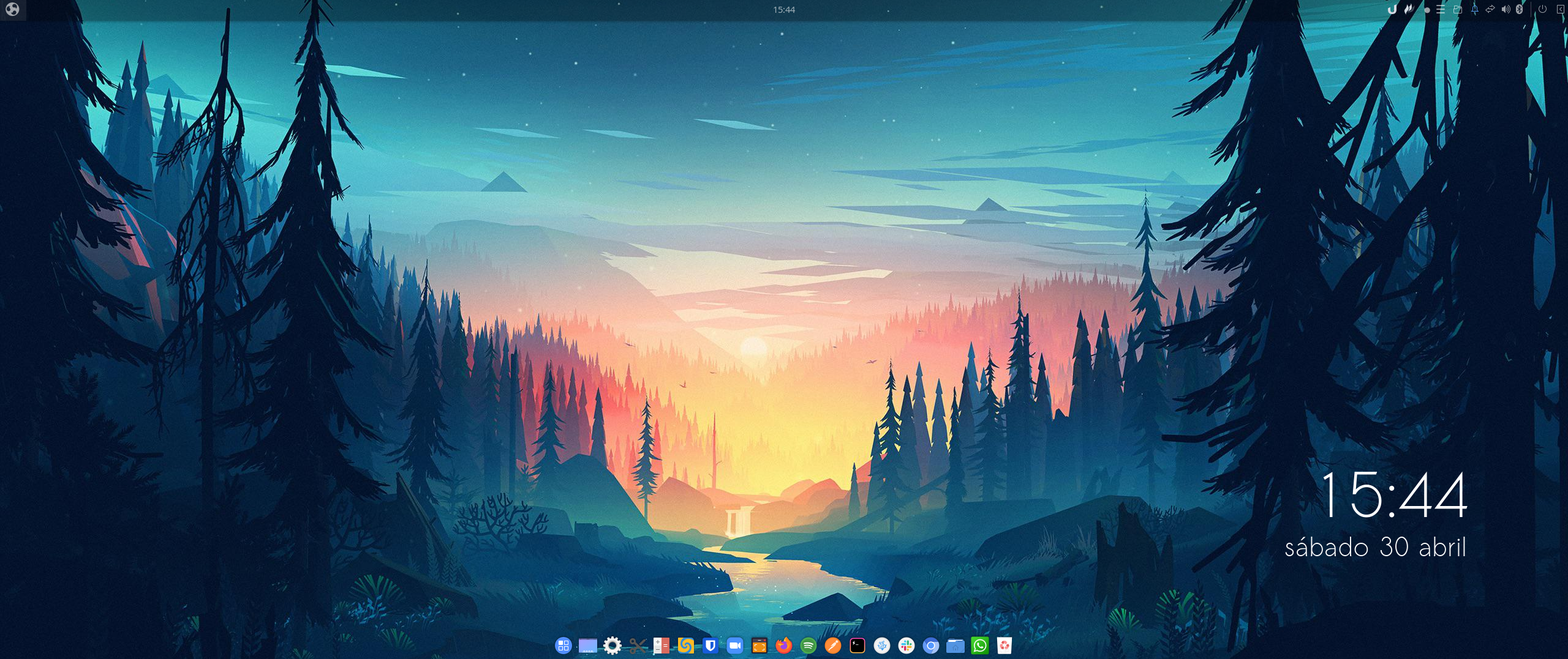
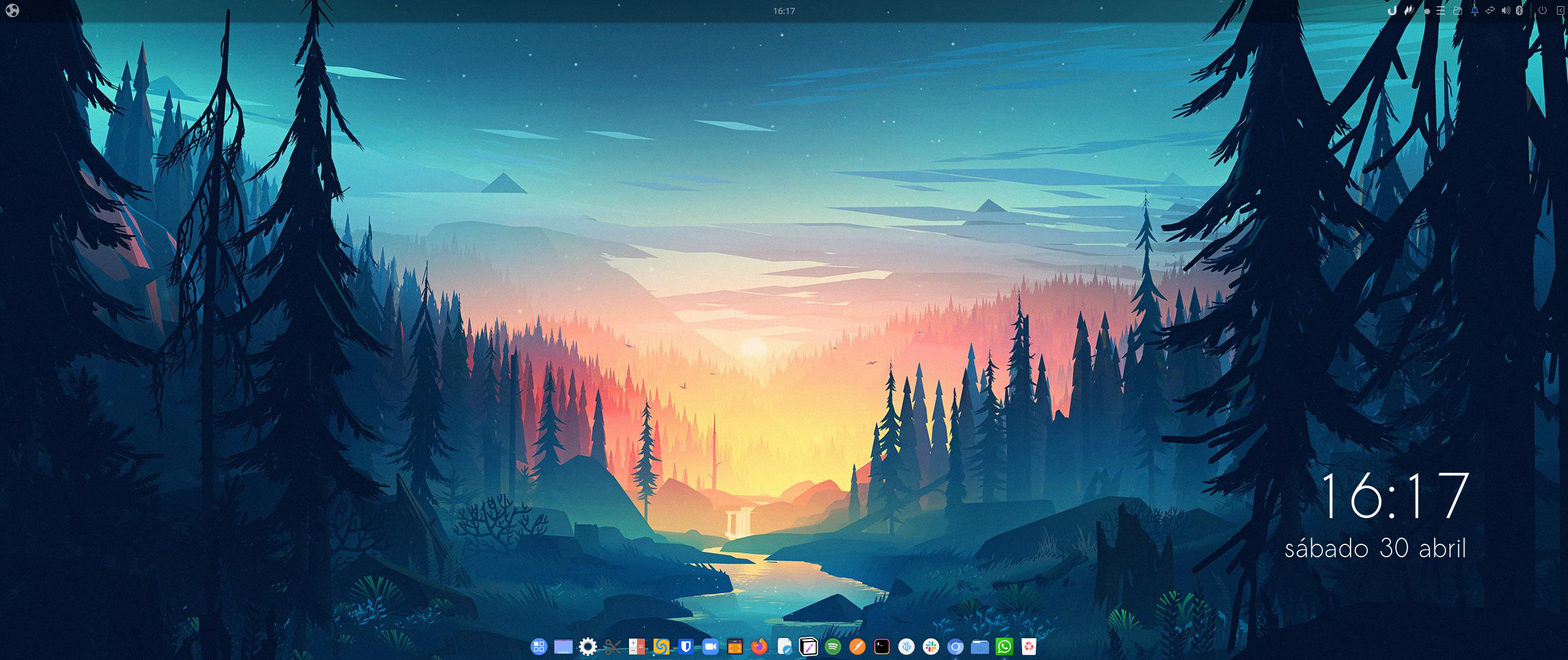
Install notion app

diff --git a/README.md b/README.md
@@ -70,6 +70,7 @@ make install # install packages
 - vim
 - meld
 - WhatsApp (Experimental)
+- Notion (New)
 ```
 
 ## Run specific tasks
@@ -92,6 +93,7 @@ make hyper  # Run tasks with hyper tag
 make infra  # Run tasks with infra tag
 make kind  # Run tasks with kind tag
 make lens  # Run tasks with lens tag
+make notion   # Run tasks with notion tag
 make snap-uninstall  # Run tasks with snap-uninstall tag
 make stacer  # Run tasks with stacer tag
 make terraform  # Run tasks with terraform tag
